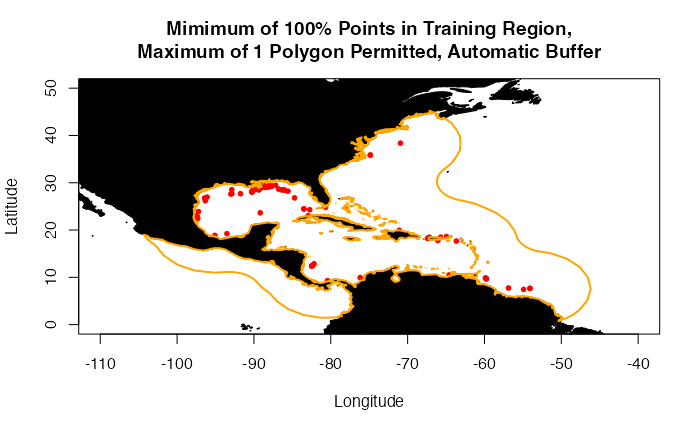
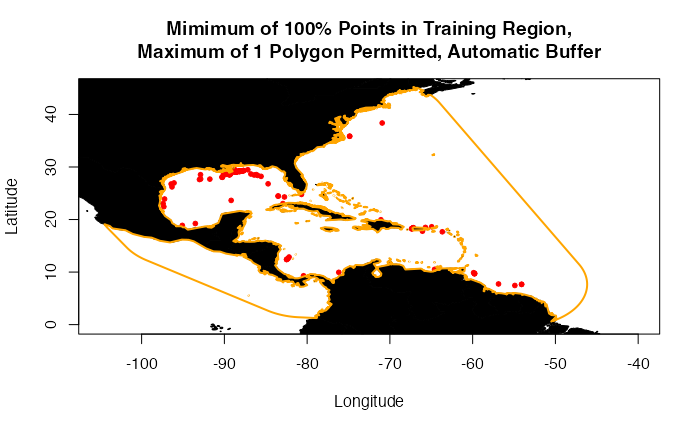
update website

diff --git a/docs/articles/c_DataSampling.html b/docs/articles/c_DataSampling.html
@@ -172,7 +172,7 @@
      main <span class="op">=</span> <span class="st">"Mimimum of 100% Points in Training Region,\nMaximum of 1 Polygon Permitted, 100 km Buffer"</span>,
      xlab <span class="op">=</span> <span class="st">"Longitude"</span>, ylab <span class="op">=</span> <span class="st">"Latitude"</span>,
      pch <span class="op">=</span> <span class="fl">20</span>, col <span class="op">=</span> <span class="st">"red"</span>,
-     xlim <span class="op">=</span> <span class="fu"><a href="https://rdrr.io/r/base/c.html" class="external-link">c</a></span><span class="op">(</span><span class="op">-</span><span class="fl">110</span>, <span class="op">-</span><span class="fl">40</span><span class="op">)</span>, ylim <span class="op">=</span> <span class="fu"><a href="https://rdrr.io/r/base/c.html" class="external-link">c</a></span><span class="op">(</span><span class="fl">0</span>, <span class="fl">50</span><span class="op">)</span><span class="op">)</span>
+     xlim <span class="op">=</span> <span class="fu"><a href="https://rdrr.io/r/base/c.html" class="external-link">c</a></span><span class="op">(</span><span class="op">-</span><span class="fl">105</span>, <span class="op">-</span><span class="fl">40</span><span class="op">)</span>, ylim <span class="op">=</span> <span class="fu"><a href="https://rdrr.io/r/base/c.html" class="external-link">c</a></span><span class="op">(</span><span class="fl">0</span>, <span class="fl">45</span><span class="op">)</span><span class="op">)</span>
 <span class="fu"><a href="https://rdrr.io/pkg/raster/man/plot.html" class="external-link">plot</a></span><span class="op">(</span><span class="va">land</span>, col <span class="op">=</span> <span class="st">"black"</span>, add <span class="op">=</span> <span class="cn">T</span><span class="op">)</span>
 <span class="fu"><a href="https://rdrr.io/pkg/raster/man/plot.html" class="external-link">plot</a></span><span class="op">(</span><span class="va">trainingRegion</span>, add <span class="op">=</span> <span class="cn">T</span>, border <span class="op">=</span> <span class="st">"orange"</span>, lwd <span class="op">=</span> <span class="fl">2</span><span class="op">)</span></code></pre></div>
 <p><img src="c_DataSampling_files/figure-html/alpha%20hull%20demonstration-1.png"><!-- --></p>
@@ -189,7 +189,7 @@
      main <span class="op">=</span> <span class="st">"Mimimum of 100% Points in Training Region,\nMaximum of 1 Polygon Permitted, Automatic Buffer"</span>,
      xlab <span class="op">=</span> <span class="st">"Longitude"</span>, ylab <span class="op">=</span> <span class="st">"Latitude"</span>,
      pch <span class="op">=</span> <span class="fl">20</span>, col <span class="op">=</span> <span class="st">"red"</span>,
-     xlim <span class="op">=</span> <span class="fu"><a href="https://rdrr.io/r/base/c.html" class="external-link">c</a></span><span class="op">(</span><span class="op">-</span><span class="fl">110</span>, <span class="op">-</span><span class="fl">40</span><span class="op">)</span>, ylim <span class="op">=</span> <span class="fu"><a href="https://rdrr.io/r/base/c.html" class="external-link">c</a></span><span class="op">(</span><span class="fl">0</span>, <span class="fl">50</span><span class="op">)</span><span class="op">)</span>
+     xlim <span class="op">=</span> <span class="fu"><a href="https://rdrr.io/r/base/c.html" class="external-link">c</a></span><span class="op">(</span><span class="op">-</span><span class="fl">105</span>, <span class="op">-</span><span class="fl">40</span><span class="op">)</span>, ylim <span class="op">=</span> <span class="fu"><a href="https://rdrr.io/r/base/c.html" class="external-link">c</a></span><span class="op">(</span><span class="fl">0</span>, <span class="fl">45</span><span class="op">)</span><span class="op">)</span>
 <span class="fu"><a href="https://rdrr.io/pkg/raster/man/plot.html" class="external-link">plot</a></span><span class="op">(</span><span class="va">land</span>, col <span class="op">=</span> <span class="st">"black"</span>, add <span class="op">=</span> <span class="cn">T</span><span class="op">)</span>
 <span class="fu"><a href="https://rdrr.io/pkg/raster/man/plot.html" class="external-link">plot</a></span><span class="op">(</span><span class="va">trainingRegion</span>, add <span class="op">=</span> <span class="cn">T</span>, border <span class="op">=</span> <span class="st">"orange"</span>, lwd <span class="op">=</span> <span class="fl">2</span><span class="op">)</span></code></pre></div>
 <p><img src="c_DataSampling_files/figure-html/basic%20marineBackground%20demonstration-1.png"><!-- --></p>
@@ -206,7 +206,7 @@
      main <span class="op">=</span> <span class="st">"Minimum of 95% Points in Training Region,\nMaximum of 2 Polygons Permitted, 100 km Buffer"</span>,
      xlab <span class="op">=</span> <span class="st">"Longitude"</span>, ylab <span class="op">=</span> <span class="st">"Latitude"</span>,
      pch <span class="op">=</span> <span class="fl">20</span>, col <span class="op">=</span> <span class="st">"red"</span>,
-     xlim <span class="op">=</span> <span class="fu"><a href="https://rdrr.io/r/base/c.html" class="external-link">c</a></span><span class="op">(</span><span class="op">-</span><span class="fl">110</span>, <span class="op">-</span><span class="fl">40</span><span class="op">)</span>, ylim <span class="op">=</span> <span class="fu"><a href="https://rdrr.io/r/base/c.html" class="external-link">c</a></span><span class="op">(</span><span class="fl">0</span>, <span class="fl">50</span><span class="op">)</span><span class="op">)</span>
+     xlim <span class="op">=</span> <span class="fu"><a href="https://rdrr.io/r/base/c.html" class="external-link">c</a></span><span class="op">(</span><span class="op">-</span><span class="fl">105</span>, <span class="op">-</span><span class="fl">40</span><span class="op">)</span>, ylim <span class="op">=</span> <span class="fu"><a href="https://rdrr.io/r/base/c.html" class="external-link">c</a></span><span class="op">(</span><span class="fl">0</span>, <span class="fl">45</span><span class="op">)</span><span class="op">)</span>
 <span class="fu"><a href="https://rdrr.io/pkg/raster/man/plot.html" class="external-link">plot</a></span><span class="op">(</span><span class="va">land</span>, col <span class="op">=</span> <span class="st">"black"</span>, add <span class="op">=</span> <span class="cn">T</span><span class="op">)</span>
 <span class="fu"><a href="https://rdrr.io/pkg/raster/man/plot.html" class="external-link">plot</a></span><span class="op">(</span><span class="va">trainingRegion</span>, add <span class="op">=</span> <span class="cn">T</span>, border <span class="op">=</span> <span class="st">"orange"</span>, lwd <span class="op">=</span> <span class="fl">2</span><span class="op">)</span></code></pre></div>
 <p><img src="c_DataSampling_files/figure-html/clipToOcean%20demo-1.png"><!-- --></p>
@@ -250,7 +250,7 @@
 <span class="va">temperature</span> <span class="op">&lt;-</span> <span class="fu"><a href="http://rgdal.r-forge.r-project.org/reference/readOGR.html" class="external-link">readOGR</a></span><span class="op">(</span>dsn <span class="op">=</span> <span class="fu"><a href="https://rdrr.io/r/base/paste.html" class="external-link">paste0</a></span><span class="op">(</span><span class="va">td</span>, <span class="st">"/temperature"</span><span class="op">)</span>, 
                        layer <span class="op">=</span><span class="st">"woa18_decav_t00mn01_cropped"</span><span class="op">)</span></code></pre></div>
 <pre><code><span class="co">## OGR data source with driver: ESRI Shapefile </span>
-<span class="co">## Source: "/private/var/folders/xn/_tk36pd5517g_xxb5t9gh2qr0000gn/T/RtmpRZLts5/temperature", layer: "woa18_decav_t00mn01_cropped"</span>
+<span class="co">## Source: "/private/var/folders/xn/_tk36pd5517g_xxb5t9gh2qr0000gn/T/RtmpgNysyY/temperature", layer: "woa18_decav_t00mn01_cropped"</span>
 <span class="co">## with 2291 features</span>
 <span class="co">## It has 102 fields</span></code></pre>
 <div class="sourceCode" id="cb24"><pre class="downlit sourceCode r">

diff --git a/docs/articles/a_Introduction.html b/docs/articles/a_Introduction.html
@@ -153,7 +153,7 @@
 </h2>
 <p>First thing’s first. Distributional models are based on coordinates of species’ occurrences. We start with and example occurrence dataset of <em>Steindachneria argentia</em>, Luminous Hake, using data downloaded via R (R Core Team, 2020) from GBIF (Chamberlain <em>et al.</em>, 2021; Chamberlain and Boettiger, 2017) and OBIS (Provoost and Bosch, 2019) via occCite (Owens <em>et al.</em>, 2021).</p>
 <pre><code><span class="co">## OGR data source with driver: ESRI Shapefile </span>
-<span class="co">## Source: "/private/var/folders/xn/_tk36pd5517g_xxb5t9gh2qr0000gn/T/Rtmp0NxNdM/temperature", layer: "woa18_decav_t00mn01_cropped"</span>
+<span class="co">## Source: "/private/var/folders/xn/_tk36pd5517g_xxb5t9gh2qr0000gn/T/Rtmpmf6qMq/temperature", layer: "woa18_decav_t00mn01_cropped"</span>
 <span class="co">## with 2291 features</span>
 <span class="co">## It has 102 fields</span></code></pre>
 <p>Here is how the occurrence data file is structured, and where the occurrences we will be using are located.</p>

diff --git a/docs/news/index.html b/docs/news/index.html
@@ -72,7 +72,7 @@
     <div class="section level2">
 <h2 class="page-header" data-toc-text="0.1.1" id="volumodel-011">voluModel 0.1.1<a class="anchor" aria-label="anchor" href="#volumodel-011"></a></h2>
 <ul><li>Overhauled vignettes–more detailed, special topics</li>
-<li>Reduced space footprint</li>
+<li>Reduced space footprint, increased speed</li>
 </ul></div>
     <div class="section level2">
 <h2 class="page-header" data-toc-text="0.1.0" id="volumodel-010">voluModel 0.1.0<a class="anchor" aria-label="anchor" href="#volumodel-010"></a></h2>

diff --git a/NEWS.md b/NEWS.md
@@ -1,7 +1,7 @@
 # voluModel 0.1.1
 
 - Overhauled vignettes--more detailed, special topics
-- Reduced space footprint
+- Reduced space footprint, increased speed
 
 # voluModel 0.1.0
 
